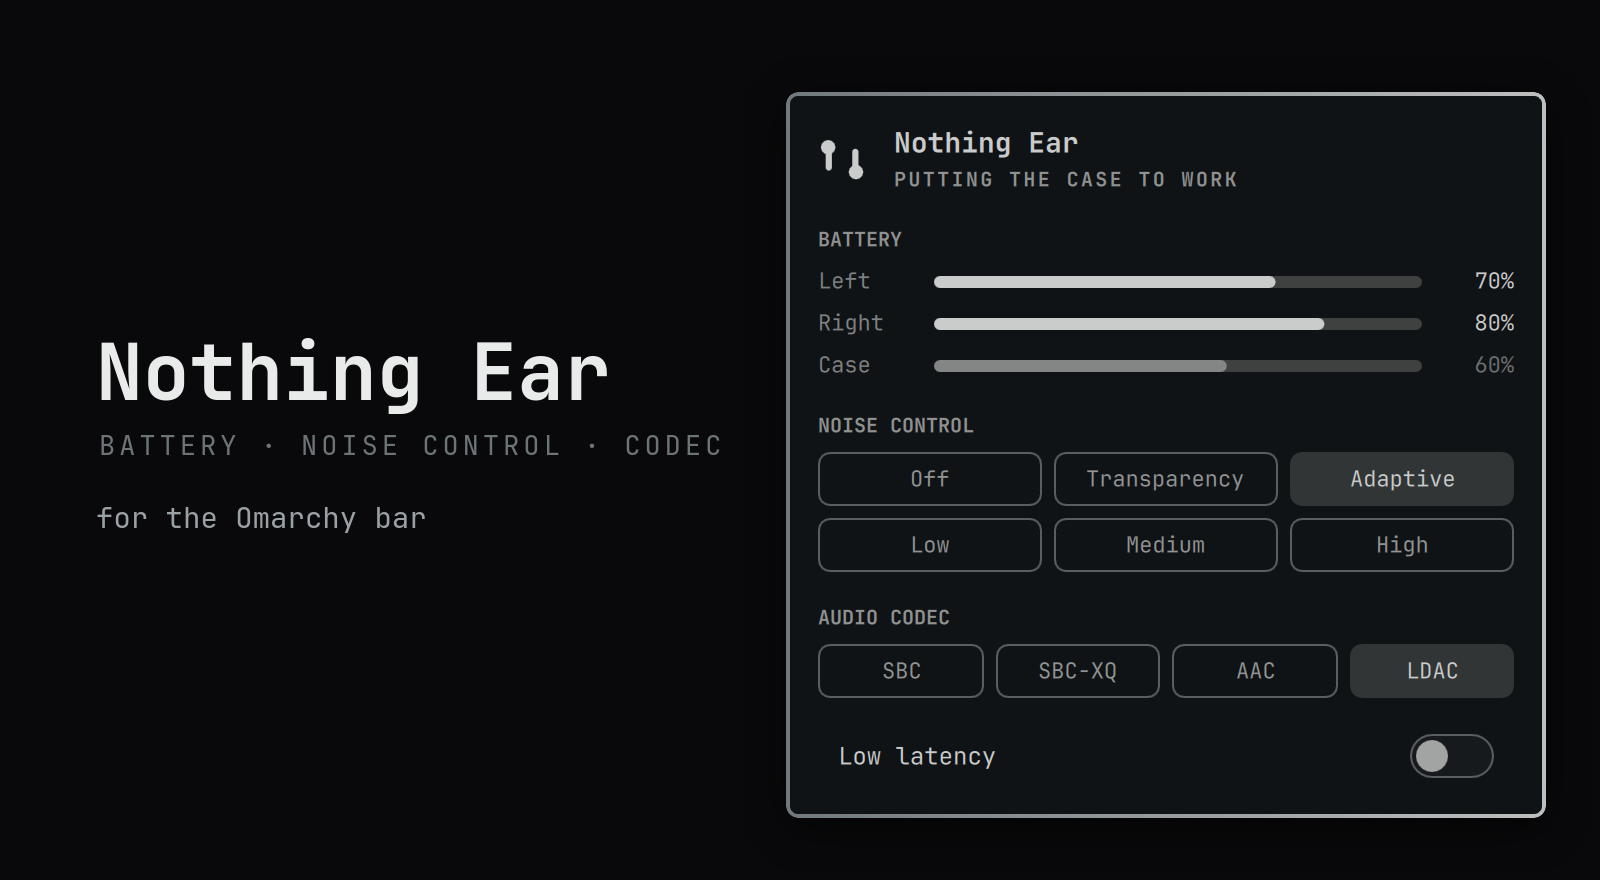
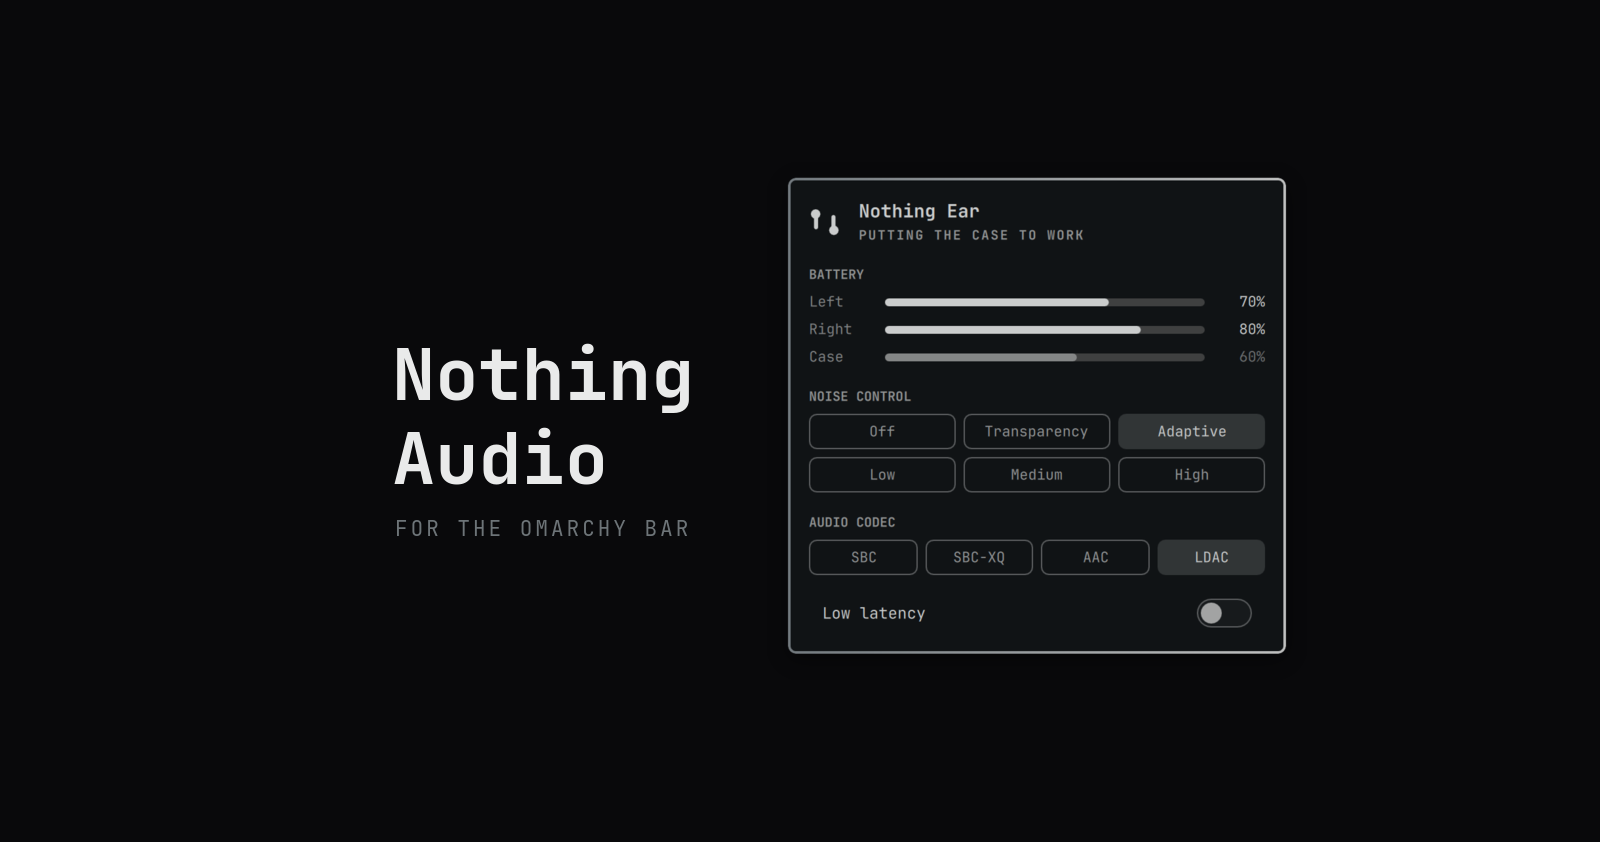
chore: rebrand to Nothing Audio and bump to 1.1.0 (#2)

diff --git a/Model.js b/Model.js
@@ -78,7 +78,7 @@ function parseStatus(raw) {
   var status = defaultStatus()
   var text = String(raw || "").trim()
   if (text === "") {
-    status.lastError = "The Nothing Ear helper returned no status"
+    status.lastError = "The Nothing Audio helper returned no status"
     return status
   }
 
@@ -86,18 +86,18 @@ function parseStatus(raw) {
   try {
     parsed = JSON.parse(text)
   } catch (e) {
-    status.lastError = "Could not read the Nothing Ear status"
+    status.lastError = "Could not read the Nothing Audio status"
     return status
   }
   if (!parsed || typeof parsed !== "object") {
-    status.lastError = "The Nothing Ear helper returned an invalid status"
+    status.lastError = "The Nothing Audio helper returned an invalid status"
     return status
   }
 
   var version = integer(parsed.schema_version, 0)
   if (version > SUPPORTED_SCHEMA) {
     status.schemaTooNew = true
-    status.lastError = "Nothing Ear status schema " + version + " is newer than this plugin"
+    status.lastError = "Nothing Audio status schema " + version + " is newer than this plugin"
     return status
   }
 

diff --git a/Panel.qml b/Panel.qml
@@ -247,7 +247,7 @@ Panel {
           PanelHero {
             id: hero
             width: parent.width
-            title: ear.deviceName !== "" ? ear.deviceName : "Nothing Ear"
+            title: ear.deviceName !== "" ? ear.deviceName : "Nothing Audio"
             meta: ear.connected
               ? (ear.protocol ? root.heroPhrase : "Bluetooth connected")
               : (ear.deviceKnown ? "Not connected" : "Find a paired Nothing device")

diff --git a/Service.qml b/Service.qml
@@ -259,7 +259,7 @@ Item {
   // A helper that cannot run says nothing about the earbuds, so the reading on
   // screen stands and only the error is new.
   function failedStatus(message) {
-    lastError = Model.errorText(message || "Could not query Nothing Ear")
+    lastError = Model.errorText(message || "Could not query the Nothing device")
   }
 
   // A status read holds the control channel for well under a second, but that is

diff --git a/nothing-earctl.py b/nothing-earctl.py
@@ -134,7 +134,7 @@ def choose_device(requested: str = "") -> dict[str, str] | None:
         # A configured address is still useful if bluetoothctl has temporarily
         # omitted it from `devices`.
         if ADDRESS_RE.match(requested):
-            return {"address": requested.upper(), "name": "Nothing Ear"}
+            return {"address": requested.upper(), "name": "Nothing device"}
         return None
 
     connected = [d for d in devices if looks_like_nothing(d["name"]) and is_connected(d["address"])]
@@ -470,7 +470,7 @@ def snapshot(device: dict[str, str] | None) -> dict[str, object]:
     only the things that genuinely went wrong.
     """
     address = device["address"] if device else ""
-    name = (device.get("name") if device else "") or ("Nothing Ear" if address else "")
+    name = (device.get("name") if device else "") or ("Nothing device" if address else "")
     battery: dict[str, object] = {
         "left": unknown_component(),
         "right": unknown_component(),
@@ -587,7 +587,7 @@ def emit(data: object) -> None:
 
 
 def main() -> int:
-    parser = argparse.ArgumentParser(description="Read and control Nothing Ear over Bluetooth")
+    parser = argparse.ArgumentParser(description="Read and control Nothing earbuds and headphones over Bluetooth")
     parser.add_argument("--device", default="", help="Bluetooth address or name")
     sub = parser.add_subparsers(dest="command", required=True)
     sub.add_parser("status")

diff --git a/README.md b/README.md
@@ -1,13 +1,14 @@
-# Nothing Ear for Omarchy
+# Nothing Audio for Omarchy
 
-An Omarchy bar widget for Nothing Ear earbuds and Nothing Headphone (1):
-battery, noise control, audio codec, and low latency mode. It speaks the
-Nothing X protocol over Bluetooth RFCOMM through a small Python helper, so
-there is no daemon and no dependencies beyond `bluetoothctl` and `pactl`.
+An Omarchy bar widget for Nothing earbuds and headphones: battery, noise
+control, audio codec, and low latency mode. Tested on Nothing Ear and Nothing
+Headphone (1). It speaks the Nothing X protocol over Bluetooth RFCOMM through a
+small Python helper, so there is no daemon and no dependencies beyond
+`bluetoothctl` and `pactl`.
 
 <p align="center">
   <img src="docs/screenshot.png" width="420"
-       alt="The Nothing Ear panel: per-earbud and case battery, noise-control chips with Adaptive selected, codec chips with LDAC selected, and a low-latency toggle">
+       alt="The Nothing Audio panel: per-earbud and case battery, noise-control chips with Adaptive selected, codec chips with LDAC selected, and a low-latency toggle">
 </p>
 
 ## Features
@@ -15,7 +16,7 @@ there is no daemon and no dependencies beyond `bluetoothctl` and `pactl`.
 - Left, right, and case battery for earbuds, one headset battery for
   Headphone (1), with a charging pulse on the meter
 - Noise control: Off, Transparency, Adaptive, Low, Medium, High
-- Low latency mode on earbuds that expose it
+- Low latency mode on devices that expose it
 - Audio codec, limited to what your laptop can actually negotiate
 - Falls back to the single Bluetooth percentage if the Nothing control channel
   is busy
@@ -37,7 +38,7 @@ first connected device whose name contains `Nothing`, `Ear`, or `CMF`.
 
 | Key | Default | What it does |
 | --- | --- | --- |
-| `hideWhenDisconnected` | `true` | Hide the icon while the earbuds are away. An error keeps it visible. |
+| `hideWhenDisconnected` | `true` | Hide the icon while the device is away. An error keeps it visible. |
 | `deviceAddress` | `""` | Pin a Bluetooth address, for when several matching devices are paired. |
 | `helperPath` | `""` | Use a different `nothing-earctl.py`. Empty uses the bundled one. |
 
@@ -68,7 +69,7 @@ Codec options come from PipeWire's real A2DP card profiles, so a codec your
 laptop cannot negotiate never appears. Switching one may briefly interrupt audio
 while PipeWire renegotiates the stream.
 
-The earbuds report a vendor codec mode of their own. The plugin reads it for
+The device reports a vendor codec mode of its own. The plugin reads it for
 diagnostics but never writes it, because the firmware can acknowledge a value
 without applying it. The host side is what actually changes the stream.
 
@@ -85,7 +86,7 @@ runs for the length of one call:
 ```
 
 Each call prints one line of JSON. `status` always prints a full snapshot and
-exits 0; the `connected` and `protocol` fields say which state the earbuds are
+exits 0; the `connected` and `protocol` fields say which state the device is
 in.
 
 ## Remove
@@ -97,5 +98,6 @@ rm -rf "${XDG_STATE_HOME:-$HOME/.local/state}/nothing-ear"
 
 ## License
 
-MIT. Nothing Ear and Nothing X are trademarks of Nothing Technology Limited.
+MIT. Nothing, Nothing Ear, and Nothing X are trademarks of Nothing Technology
+Limited.
 This project is unofficial.
